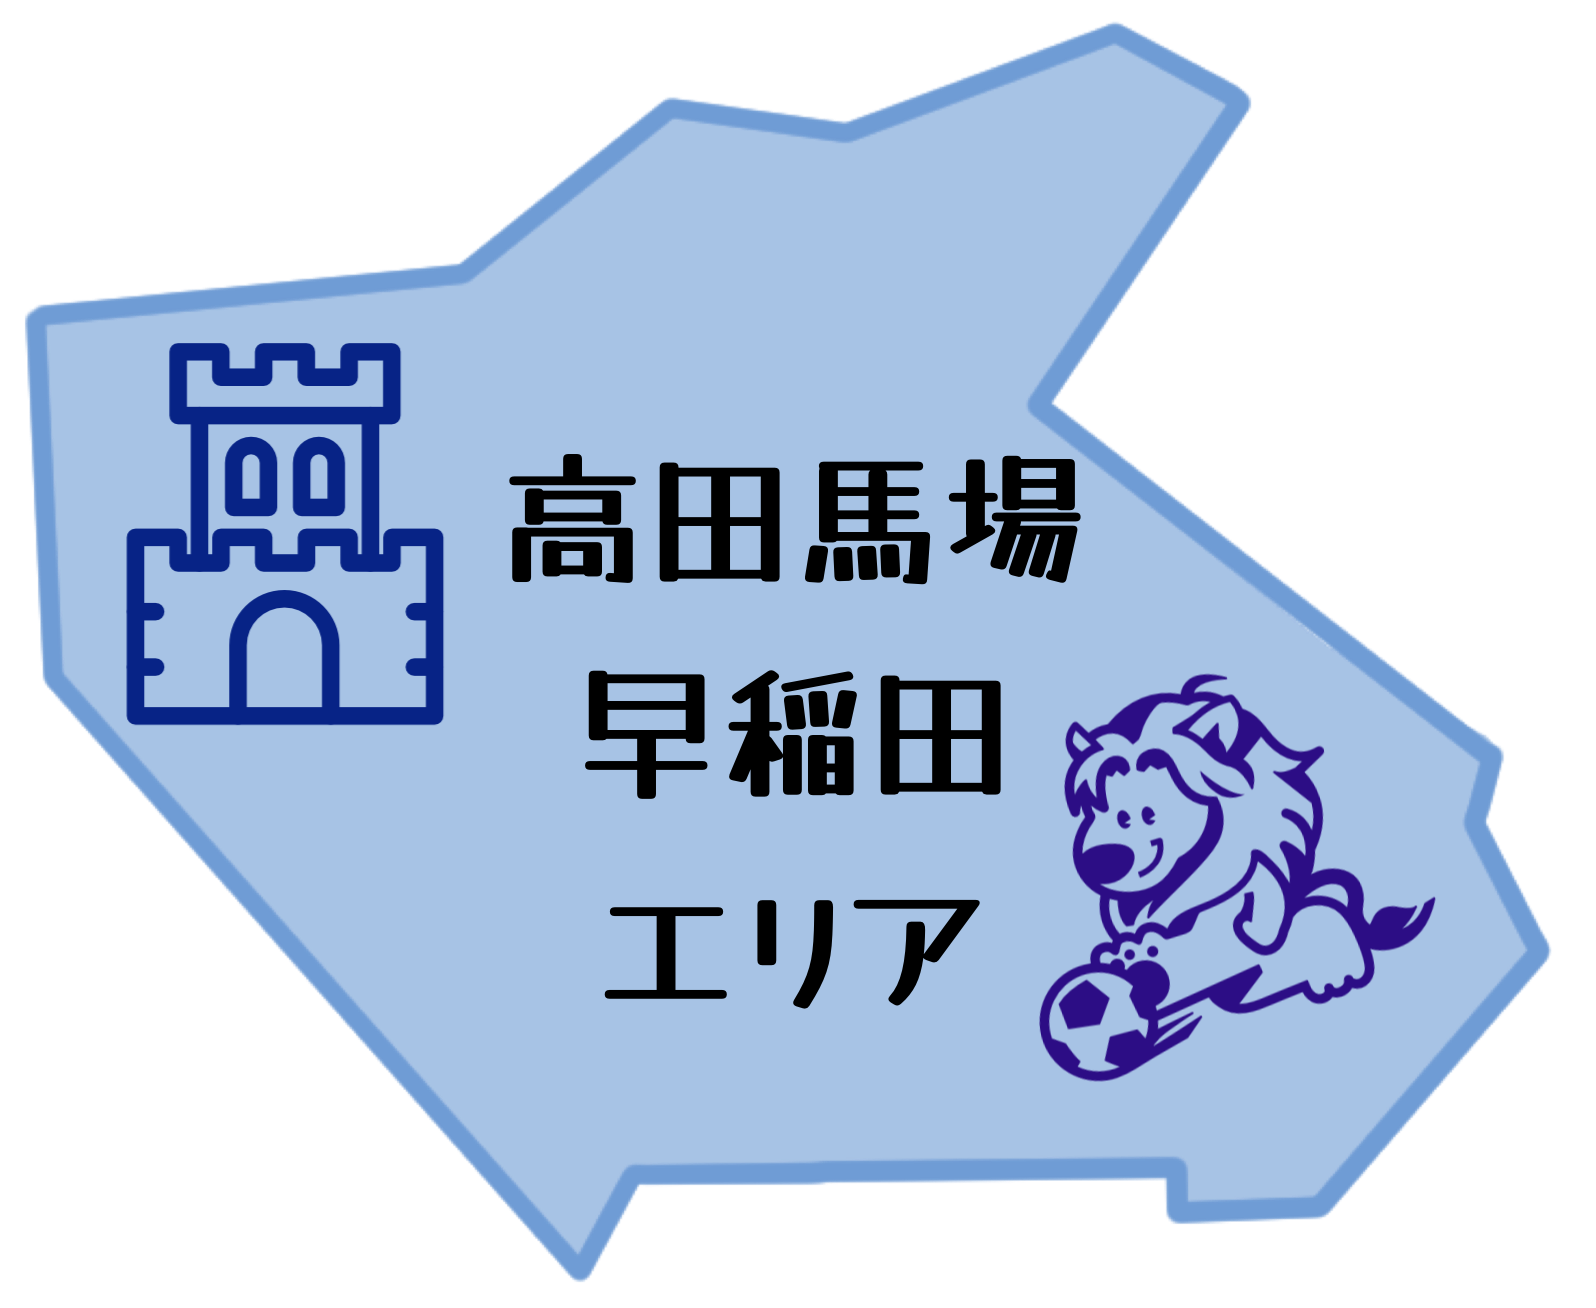
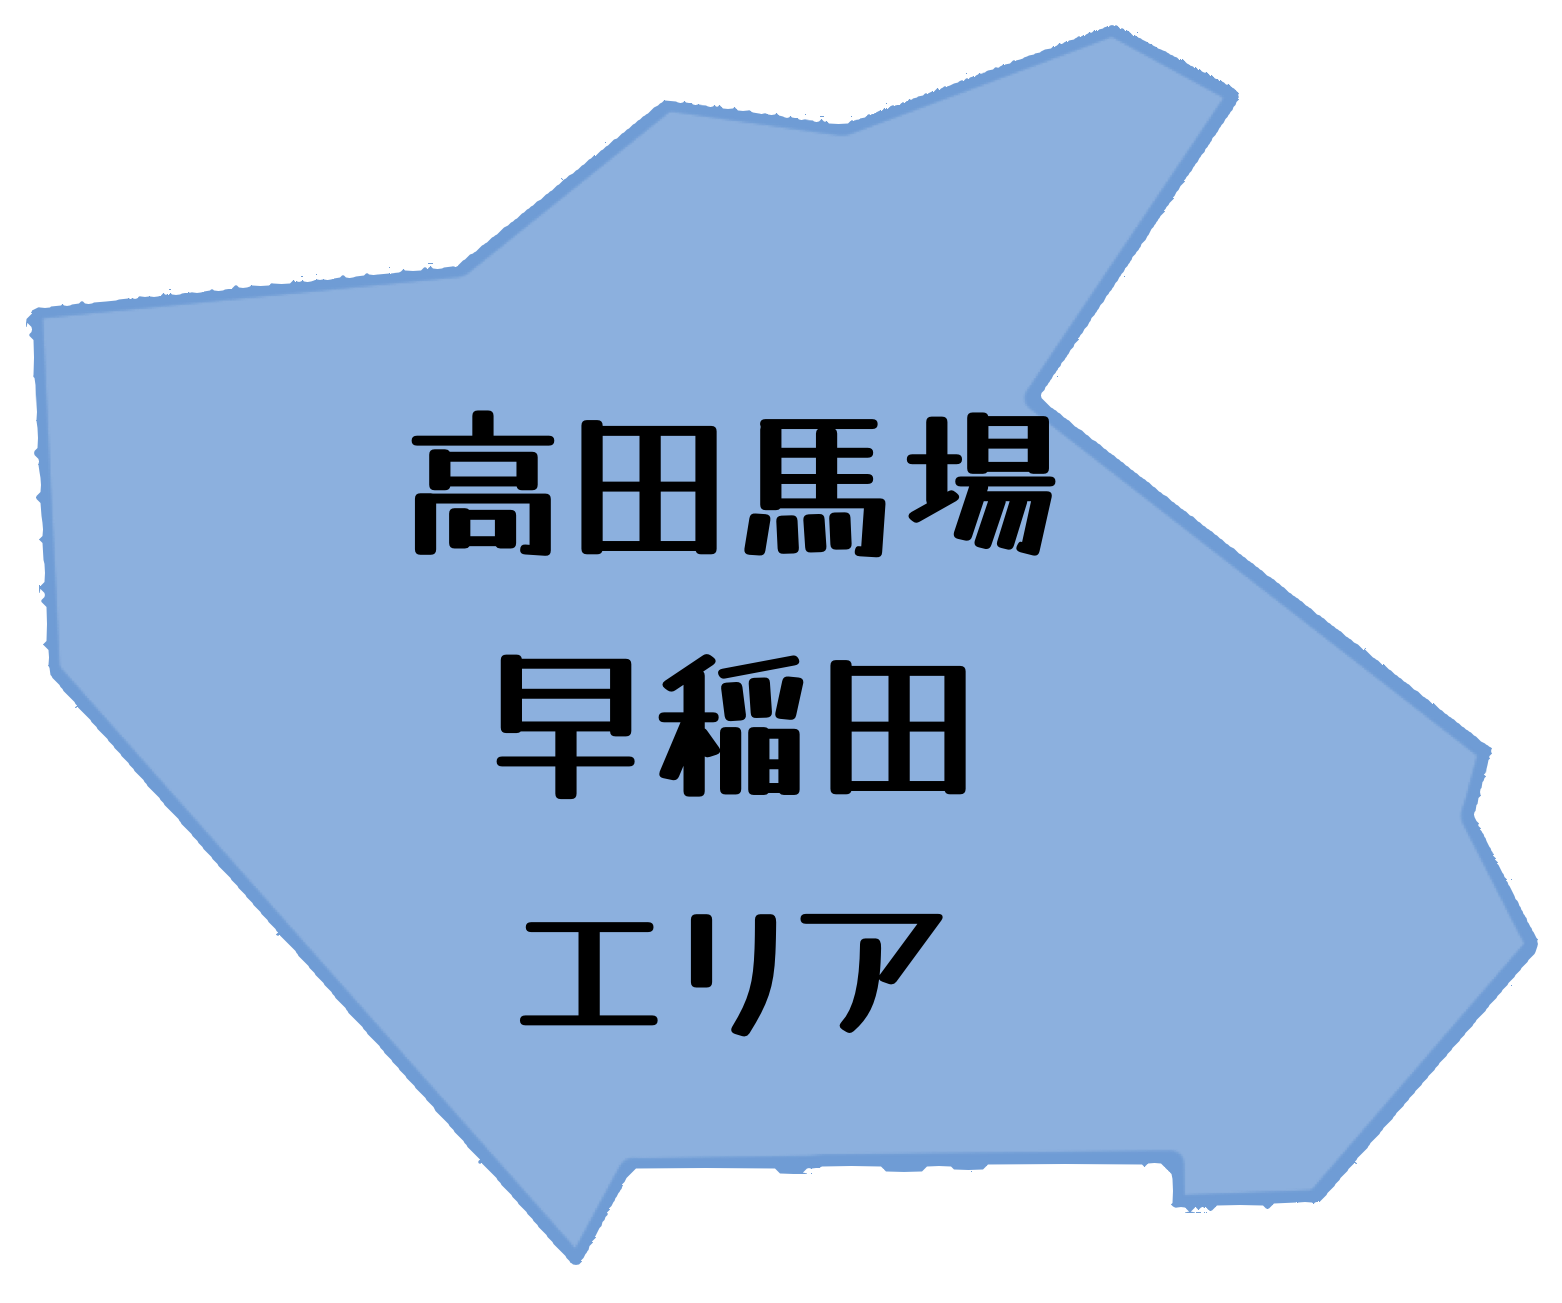
エリアマップの画像を変更

diff --git a/lib/screen/Map.dart b/lib/screen/Map.dart
@@ -69,8 +69,8 @@ class MapPageScreens extends StatelessWidget {
                     ),
                   ),
                   Positioned(
-                    left: 97,
-                    top: 184,
+                    left: 89,
+                    top: 196,
                     child: GestureDetector(
                       onTap: () {
                         Navigator.push(
@@ -80,14 +80,14 @@ class MapPageScreens extends StatelessWidget {
                       },
                       child: Image.asset(
                         'assets/Map(1).png', //新宿
-                        width: 103,
+                        width: 140,
                         height: 140,
                       ),
                     ),
                   ),
                   Positioned(
-                    left: 205,
-                    top: 100,
+                    left: 215,
+                    top: 111,
                     child: GestureDetector(
                       onTap: () {
                         Navigator.push(
@@ -97,14 +97,14 @@ class MapPageScreens extends StatelessWidget {
                       },
                       child: Image.asset(
                         'assets/Map(2).png', //神楽坂
-                        width: 120,
-                        height: 116,
+                        width: 121,
+                        height: 121,
                       ),
                     ),
                   ),
                   Positioned(
-                    left: 8,
-                    top: 105,
+                    left: 19,
+                    top: 119,
                     child: GestureDetector(
                       onTap: () {
                         Navigator.push(
@@ -120,7 +120,7 @@ class MapPageScreens extends StatelessWidget {
                     ),
                   ),
                   Positioned(
-                    left: 110,
+                    left: 120,
                     top: 122,
                     child: GestureDetector(
                       onTap: () {
@@ -132,13 +132,13 @@ class MapPageScreens extends StatelessWidget {
                       child: Image.asset(
                         'assets/Map(4).png', //高田馬場
                         width: 150,
-                        height: 124,
+                        height: 150,
                       ),
                     ),
                   ),
                   Positioned(
-                    left: 185,
-                    top: 186,
+                    left: 194,
+                    top: 199,
                     child: GestureDetector(
                       onTap: () {
                         Navigator.push(
@@ -148,7 +148,7 @@ class MapPageScreens extends StatelessWidget {
                       },
                       child: Image.asset(
                         'assets/Map(5).png', //四谷
-                        width: 130,
+                        width: 135,
                         height: 150,
                       ),
                     ),
